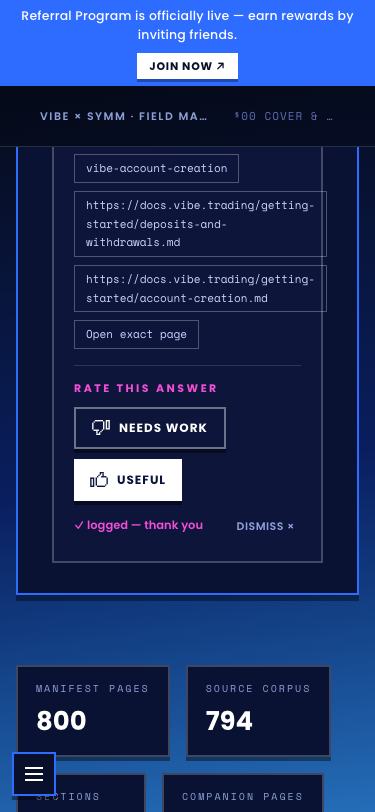
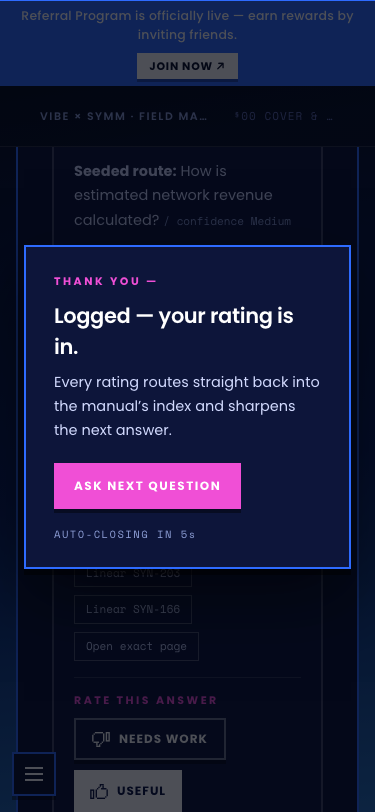
Add post-vote thank-you dialog with 5s countdown + Ask next question (SYN-364)
Operator-requested vote UX: any successful cover vote opens a dialog
("Logged — your rating is in.") with a mono 5s countdown that auto-closes,
and an ASK NEXT QUESTION button that clears the answer and refocuses the
ask field. Rating-row exits keep the answer; dismiss-guard exits clear it
(supersedes the DESIGN.MD §8 850ms rule — annotated in both copies).
Countdown is hardened against parent re-renders via a ref'd close handler.
Playwright suites extended for both origins and both exits at desktop +
375px (19/19); fidelity 04/m-04 retaken with the dialog open.

diff --git a/web/tests/field-manual.spec.ts b/web/tests/field-manual.spec.ts
@@ -127,12 +127,21 @@ test.describe('search → answer → vote (service round-trip)', () => {
     await page.keyboard.press('Enter')
     await expect(page.getByText(/service answer|service refusal/).first()).toBeVisible({ timeout: 20_000 })
 
-    // Optimistic reaction + confirmation + one-shot.
+    // Optimistic reaction; SYN-364 thank-you dialog with a 5s mono countdown.
     await page.getByRole('button', { name: 'USEFUL' }).click()
-    await expect(page.getByText('✓ logged — thank you')).toBeVisible()
-    await expect(page.getByRole('button', { name: 'USEFUL' })).toHaveCSS('background-color', 'rgb(255, 255, 255)')
+    await expect(page.getByRole('dialog', { name: 'Rating logged — thank you' })).toBeVisible()
+    await expect(page.getByText(/AUTO-CLOSING IN [0-5]s/)).toBeVisible()
+
+    // Backdrop exit keeps the answer readable (row-origin vote).
+    await page.mouse.click(40, 500)
+    await expect(page.getByRole('dialog')).toHaveCount(0)
+    await expect(page.getByText(/service answer|service refusal/).first()).toBeVisible()
+
+    // One-shot: a re-click must not re-POST; selected state inverted to white.
     await page.getByRole('button', { name: 'USEFUL' }).click({ force: true })
-    await page.waitForTimeout(500)
+    await expect(page.getByRole('button', { name: 'USEFUL' })).toHaveCSS('background-color', 'rgb(255, 255, 255)')
+    await expect(page.getByText('✓ logged — thank you')).toBeVisible()
+    await page.waitForTimeout(300)
     expect(ratingPosts).toEqual([200])
 
     const after = await serviceTotals()
@@ -140,7 +149,7 @@ test.describe('search → answer → vote (service round-trip)', () => {
     expect(after.questions).toBeGreaterThan(before.questions || 0)
   })
 
-  test('dismiss-guard blocks unrated dismissal; modal vote persists and auto-dismisses', async ({ page }) => {
+  test('dismiss-guard blocks unrated dismissal; modal vote hands off to thank-you dialog', async ({ page }) => {
     const before = await serviceTotals()
     await page.goto(`/?service=${SERVICE}`)
     await page.getByPlaceholder(ASK_PLACEHOLDER).fill('When do referral points credit?')
@@ -155,12 +164,15 @@ test.describe('search → answer → vote (service round-trip)', () => {
     await expect(page.getByText('HOLD ON —')).not.toBeVisible()
     await expect(page.getByText(/service answer|service refusal/).first()).toBeVisible()
 
-    // Re-open, rate NEEDS WORK from the modal → auto-dismiss after 850ms.
+    // Re-open, rate NEEDS WORK from the modal → thank-you dialog (SYN-364);
+    // its 5s auto-close clears the answer (guard-origin exit).
     await page.getByRole('button', { name: 'DISMISS ×' }).click()
     await page.getByRole('dialog').getByRole('button', { name: 'NEEDS WORK' }).click()
-    await expect(page.getByRole('dialog').getByText('✓ logged — thank you')).toBeVisible()
-    await expect(page.getByText('HOLD ON —')).not.toBeVisible({ timeout: 3_000 })
-    await expect(page.getByText('Routes your question to the nearest indexed figure.')).toBeVisible()
+    await expect(page.getByText('HOLD ON —')).not.toBeVisible()
+    await expect(page.getByRole('dialog', { name: 'Rating logged — thank you' })).toBeVisible()
+    await expect(page.getByText(/AUTO-CLOSING IN [0-5]s/)).toBeVisible()
+    await expect(page.getByText('Routes your question to the nearest indexed figure.')).toBeVisible({ timeout: 7_000 })
+    await expect(page.getByRole('dialog')).toHaveCount(0)
 
     const after = await serviceTotals()
     expect(after.ratings).toBe((before.ratings || 0) + 1)
@@ -177,6 +189,12 @@ test.describe('search → answer → vote (service round-trip)', () => {
     await expect(page.getByText(/routed answer/).first()).toBeVisible({ timeout: 20_000 })
     await page.getByRole('button', { name: 'USEFUL' }).click()
     await expect(page.getByText('✓ logged — thank you')).toBeVisible()
+    // SYN-364: the thank-you dialog also opens on local-mode votes; ASK NEXT
+    // QUESTION clears the answer and returns the ask form.
+    await expect(page.getByRole('dialog', { name: 'Rating logged — thank you' })).toBeVisible()
+    await page.getByRole('button', { name: 'ASK NEXT QUESTION' }).click()
+    await expect(page.getByText('Routes your question to the nearest indexed figure.')).toBeVisible()
+    await expect(page.getByRole('dialog')).toHaveCount(0)
     const stored = await page.evaluate(() => ({
       questions: JSON.parse(localStorage.getItem('searchBookPrototype.questions') || '[]').length,
       ratings: JSON.parse(localStorage.getItem('searchBookPrototype.ratings') || '[]').length,

diff --git a/web/src/components/manual/VoteThanks.tsx b/web/src/components/manual/VoteThanks.tsx
@@ -1,0 +1,134 @@
+import { useEffect, useRef, useState } from 'react'
+import { Kicker } from './Kicker'
+
+export interface VoteThanksProps {
+  open: boolean
+  /** Seconds before the dialog auto-closes (operator spec: 5). */
+  seconds?: number
+  /** ASK NEXT QUESTION — caller clears the answer and refocuses the ask field. */
+  onAskNext: () => void
+  /** Countdown end / backdrop / Escape. Caller decides whether the answer stays. */
+  onClose: () => void
+}
+
+/**
+ * Post-vote thank-you dialog (SYN-364, operator amendment to DESIGN.MD §8):
+ * confirms the logged rating, counts down from `seconds` in mono, auto-closes
+ * at zero, and offers ASK NEXT QUESTION to close immediately.
+ */
+export function VoteThanks({ open, seconds = 5, onAskNext, onClose }: VoteThanksProps) {
+  const [left, setLeft] = useState(seconds)
+  // Ref'd so parent re-renders (new handler identities) can't reset the countdown.
+  const onCloseRef = useRef(onClose)
+  onCloseRef.current = onClose
+
+  useEffect(() => {
+    if (!open) return
+    setLeft(seconds)
+    const iv = setInterval(() => setLeft((s) => s - 1), 1000)
+    const onKey = (e: KeyboardEvent) => {
+      if (e.key === 'Escape') onCloseRef.current()
+    }
+    window.addEventListener('keydown', onKey)
+    return () => {
+      clearInterval(iv)
+      window.removeEventListener('keydown', onKey)
+    }
+  }, [open, seconds])
+
+  useEffect(() => {
+    if (open && left <= 0) onCloseRef.current()
+  }, [open, left])
+
+  if (!open) return null
+
+  return (
+    <div
+      onClick={onClose}
+      style={{
+        display: 'flex',
+        position: 'fixed',
+        inset: 0,
+        background: 'rgba(2,4,14,0.7)',
+        zIndex: 60,
+        alignItems: 'center',
+        justifyContent: 'center',
+        padding: 24,
+      }}
+    >
+      <div
+        role="dialog"
+        aria-modal="true"
+        aria-label="Rating logged — thank you"
+        onClick={(e) => e.stopPropagation()}
+        style={{
+          background: 'color-mix(in srgb,var(--paper) 55%,#16276e)',
+          border: '2px solid #2e6bff',
+          boxShadow: '0 6px 0 rgba(0,0,0,0.45),0 28px 70px rgba(0,0,0,0.55)',
+          maxWidth: 460,
+          width: '100%',
+          padding: '26px 28px 24px',
+        }}
+      >
+        <Kicker size={11} tracking={2.5} style={{ marginBottom: 10 }}>
+          THANK YOU —
+        </Kicker>
+        <h3
+          style={{
+            margin: '0 0 8px',
+            fontFamily: 'var(--font-sans)',
+            fontWeight: 600,
+            fontSize: 21,
+            letterSpacing: -0.4,
+            color: '#ffffff',
+          }}
+        >
+          Logged — your rating is in.
+        </h3>
+        <p style={{ margin: '0 0 20px', fontSize: 14.5, lineHeight: 1.65, color: '#d3dbff' }}>
+          Every rating routes straight back into the manual&rsquo;s index and sharpens the next
+          answer.
+        </p>
+        <div
+          style={{
+            display: 'flex',
+            alignItems: 'center',
+            justifyContent: 'space-between',
+            gap: 18,
+            flexWrap: 'wrap',
+          }}
+        >
+          <button
+            type="button"
+            onClick={onAskNext}
+            style={{
+              background: 'var(--ink)',
+              color: '#ffffff',
+              border: '2px solid var(--ink)',
+              boxShadow: '0 4px 0 rgba(0,0,0,0.4)',
+              padding: '12px 18px',
+              fontFamily: 'var(--font-sans)',
+              fontWeight: 700,
+              fontSize: 12,
+              letterSpacing: 1.5,
+              cursor: 'pointer',
+            }}
+          >
+            ASK NEXT QUESTION
+          </button>
+          <span
+            data-thanks-countdown=""
+            style={{
+              fontFamily: 'var(--font-mono)',
+              fontSize: 10.5,
+              letterSpacing: 1.5,
+              color: '#8fa0d8',
+            }}
+          >
+            AUTO-CLOSING IN {Math.max(left, 0)}s
+          </span>
+        </div>
+      </div>
+    </div>
+  )
+}

diff --git a/web/src/app/views/CoverView.tsx b/web/src/app/views/CoverView.tsx
@@ -1,5 +1,5 @@
-import { useCallback, useRef } from 'react'
-import { AskPanel, DashedRule, DismissGuard, RatingButtons } from '@/components/manual'
+import { useCallback } from 'react'
+import { AskPanel, DashedRule, DismissGuard, RatingButtons, VoteThanks } from '@/components/manual'
 import { recordAnswerRating, type VoteValue } from '@/lib/voting'
 import type { SearchBookApp } from '../useSearchBook'
 import { AnswerBody } from '../AnswerBody'
@@ -14,7 +14,10 @@ import { useState } from 'react'
  */
 export function CoverView({ app }: { app: SearchBookApp }) {
   const [guardOpen, setGuardOpen] = useState(false)
-  const dismissTimer = useRef<ReturnType<typeof setTimeout> | null>(null)
+  // Post-vote thank-you dialog (SYN-364). 'guard'-origin exits always clear the
+  // answer (the user had already asked to dismiss); 'row'-origin keeps it
+  // unless ASK NEXT QUESTION is used.
+  const [thanks, setThanks] = useState<null | 'row' | 'guard'>(null)
 
   const answer = app.answer
   const persist = useCallback(
@@ -38,11 +41,21 @@ export function CoverView({ app }: { app: SearchBookApp }) {
   const voteState = useVote(persist)
 
   const resetAnswer = useCallback(() => {
-    if (dismissTimer.current) clearTimeout(dismissTimer.current)
     app.dismissAnswer()
     voteState.reset()
     setGuardOpen(false)
+    setThanks(null)
   }, [app, voteState])
+
+  const closeThanks = useCallback(() => {
+    if (thanks === 'guard') resetAnswer()
+    setThanks(null)
+  }, [thanks, resetAnswer])
+
+  const askNext = useCallback(() => {
+    resetAnswer()
+    document.querySelector<HTMLInputElement>('.askinput')?.focus()
+  }, [resetAnswer])
 
   const requestDismiss = () => {
     if (voteState.rating) resetAnswer()
@@ -151,7 +164,11 @@ export function CoverView({ app }: { app: SearchBookApp }) {
                     rating={voteState.rating}
                     locked={voteState.locked}
                     error={voteState.error}
-                    onRate={(dir) => void voteState.vote(dir)}
+                    onRate={(dir) =>
+                      void voteState.vote(dir).then((ok) => {
+                        if (ok) setThanks('row')
+                      })
+                    }
                     onDismiss={requestDismiss}
                   />
                 }
@@ -168,13 +185,19 @@ export function CoverView({ app }: { app: SearchBookApp }) {
         error={voteState.error}
         onRate={(dir) => {
           void voteState.vote(dir).then((ok) => {
-            // DESIGN.MD §8: a successful modal rating auto-dismisses after 850ms.
-            if (ok) dismissTimer.current = setTimeout(resetAnswer, 850)
+            // SYN-364 (supersedes the §8 850ms rule): a successful modal
+            // rating hands off to the thank-you dialog.
+            if (ok) {
+              setGuardOpen(false)
+              setThanks('guard')
+            }
           })
         }}
         onCancel={() => setGuardOpen(false)}
         onDismiss={resetAnswer}
       />
+
+      <VoteThanks open={thanks !== null} onAskNext={askNext} onClose={closeThanks} />
     </div>
   )
 }

diff --git a/web/tests/field-manual-mobile.spec.ts b/web/tests/field-manual-mobile.spec.ts
@@ -146,6 +146,11 @@ test.describe('mobile voting', () => {
 
     await page.getByRole('button', { name: 'USEFUL' }).click()
     await expect(page.getByText('✓ logged — thank you')).toBeVisible()
+    // SYN-364 dialog: backdrop exit keeps the answer readable (row-origin vote).
+    await expect(page.getByRole('dialog', { name: 'Rating logged — thank you' })).toBeVisible()
+    await page.mouse.click(20, 60)
+    await expect(page.getByRole('dialog')).toHaveCount(0)
+    await expect(page.getByText(/service answer|service refusal/).first()).toBeVisible()
     await page.getByRole('button', { name: 'USEFUL' }).click({ force: true })
     await page.waitForTimeout(400)
     expect(ratingPosts).toEqual([200])
@@ -165,8 +170,14 @@ test.describe('mobile voting', () => {
     expect(dialog!.width).toBeLessThanOrEqual(375)
 
     await page.getByRole('dialog').getByRole('button', { name: 'NEEDS WORK' }).click()
-    await expect(page.getByRole('dialog').getByText('✓ logged — thank you')).toBeVisible()
-    await expect(page.getByText('HOLD ON —')).not.toBeVisible({ timeout: 3_000 })
+    // SYN-364: guard hands off to the thank-you dialog; ASK NEXT QUESTION
+    // clears the answer and returns the ask form.
+    await expect(page.getByText('HOLD ON —')).not.toBeVisible()
+    const thanks = page.getByRole('dialog', { name: 'Rating logged — thank you' })
+    await expect(thanks).toBeVisible()
+    await thanks.getByRole('button', { name: 'ASK NEXT QUESTION' }).click()
+    await expect(page.getByText('Routes your question to the nearest indexed figure.')).toBeVisible()
+    await expect(page.getByRole('dialog')).toHaveCount(0)
   })
 
   test('reader page-vote works at 375px', async ({ page }) => {

diff --git a/web/src/components/manual/DismissGuard.tsx b/web/src/components/manual/DismissGuard.tsx
@@ -5,7 +5,7 @@ import { RatingButtons, type Rating } from './RatingButtons'
 export interface DismissGuardProps {
   open: boolean
   rating: Rating
-  /** Rating from the modal; caller should auto-dismiss the answer after 850ms (DESIGN.MD §8). */
+  /** Rating from the modal; caller hands off to the thank-you dialog (SYN-364, supersedes the §8 850ms rule). */
   onRate: (dir: 'up' | 'down') => void
   /** Backdrop click / Escape — keeps the answer. */
   onCancel: () => void

diff --git a/web/src/components/manual/index.ts b/web/src/components/manual/index.ts
@@ -14,6 +14,7 @@ export { Prose, ProseColumns } from './ProseColumns'
 export { RatingButtons, type Rating } from './RatingButtons'
 export { Sidebar, type NavItem } from './Sidebar'
 export { ThumbIcon } from './ThumbIcon'
+export { VoteThanks } from './VoteThanks'
 export { TopBar } from './TopBar'
 export { FigEpoch } from './figures/FigEpoch'
 export { FigIntentLifecycle } from './figures/FigIntentLifecycle'

diff --git a/DESIGN.MD b/DESIGN.MD
@@ -97,7 +97,7 @@ Diagram conventions: hatching = `repeating-linear-gradient(45°, white/12–14 0
 ## 8. Behavior notes
 
 - Q&A: keyword-matched canned answers (points credit / revenue calc / counter paused / invites) + low-confidence fallback routing to §04. Answer replaces the ask form; Q echoes above it.
-- Rating from the modal auto-dismisses the answer after 850ms.
+- Rating from the modal auto-dismisses the answer after 850ms. **Operator amendment 2026-07-04 (SYN-364), supersedes the 850ms rule:** any successful vote opens a thank-you dialog ("Logged — your rating is in.") with a 5s mono countdown; `ASK NEXT QUESTION` closes it, clears the answer, and refocuses the ask field; countdown/backdrop/Escape exit keeps the answer for rating-row votes and clears it for dismiss-guard votes.
 - Section state is a single `page` value; sidebar, top-bar indicator, and visible pshell all derive from it.
 - Scrollbar is styled (11px, `#1b2c74` thumb, paper track); selection is magenta/white.
 

diff --git a/docs/goals/field-manual-v2/DESIGN.MD b/docs/goals/field-manual-v2/DESIGN.MD
@@ -97,7 +97,7 @@ Diagram conventions: hatching = `repeating-linear-gradient(45°, white/12–14 0
 ## 8. Behavior notes
 
 - Q&A: keyword-matched canned answers (points credit / revenue calc / counter paused / invites) + low-confidence fallback routing to §04. Answer replaces the ask form; Q echoes above it.
-- Rating from the modal auto-dismisses the answer after 850ms.
+- Rating from the modal auto-dismisses the answer after 850ms. **Operator amendment 2026-07-04 (SYN-364), supersedes the 850ms rule:** any successful vote opens a thank-you dialog ("Logged — your rating is in.") with a 5s mono countdown; `ASK NEXT QUESTION` closes it, clears the answer, and refocuses the ask field; countdown/backdrop/Escape exit keeps the answer for rating-row votes and clears it for dismiss-guard votes.
 - Section state is a single `page` value; sidebar, top-bar indicator, and visible pshell all derive from it.
 - Scrollbar is styled (11px, `#1b2c74` thumb, paper track); selection is magenta/white.
 
